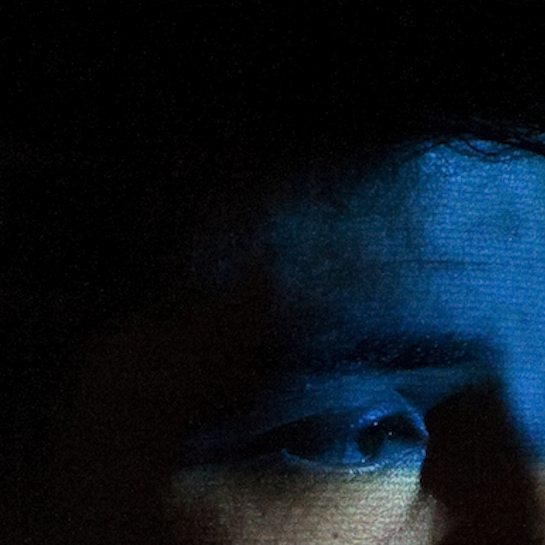
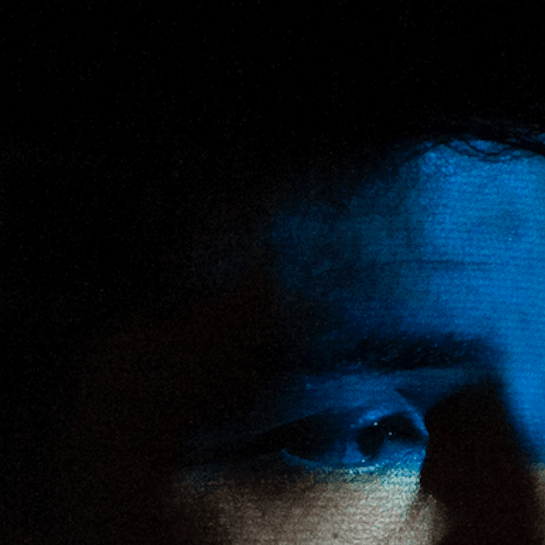
fix images

diff --git a/wild_humans/templates/wild_humans_main/index.html b/wild_humans/templates/wild_humans_main/index.html
@@ -6,7 +6,7 @@
         <div class="col-md-1"></div>
         <div class="col-md-10">
             <div class="left-align latest-blog">
-                <img class="front-poster center-block img-responsive" src="/static/img/april_28_16.jpg">
+                <img class="front-poster center-block img-responsive" src="/static/img/IMG_2818.png">
             </div>
             <br>
 
